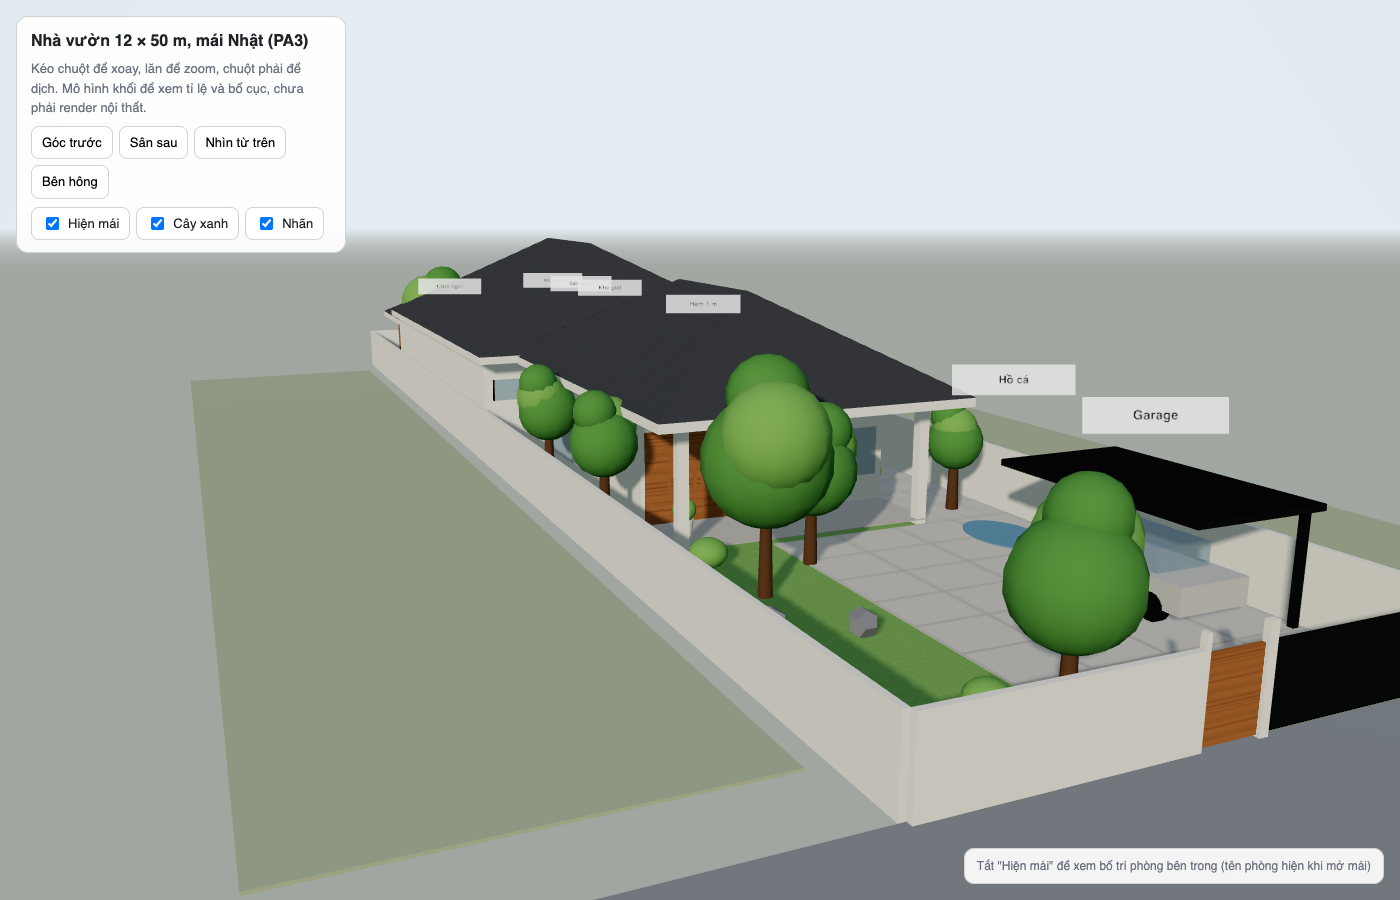
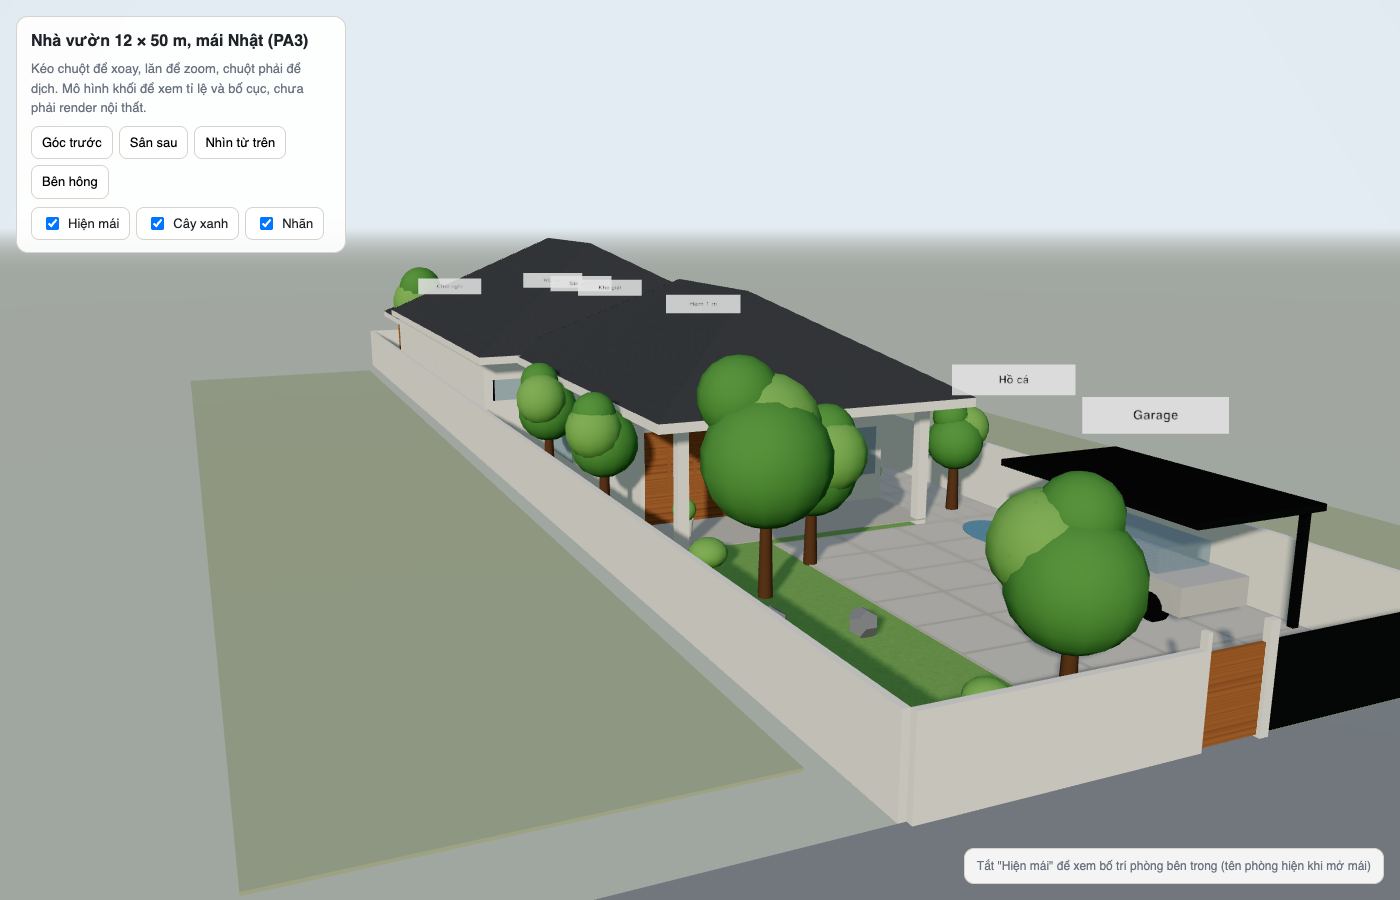
Bếp nấu 4 m, phòng làm việc 4,2 m

diff --git a/mat-bang-nha-12x50.html b/mat-bang-nha-12x50.html
@@ -82,7 +82,7 @@
       <h2 style="margin-top:0">Ý đồ thiết kế</h2>
       <ul>
         <li><b>Gian trước 7,5 × 12,5 m</b>: hiên 2,5 m, rồi gian thờ 3,5 × 4,5 m bên trái và sảnh vào 4 × 4,5 m bên phải, sau đó là phòng khách 7,5 × 5,5 m. Gian thờ là phòng đầu tiên của nhà, bàn thờ đặt sát tường trong nhìn thẳng ra đường, có cửa sổ tròn bên hông và cửa sổ ra hiên. Cửa 2 cánh mở từ sảnh vào. Toàn bộ gian trước không có WC.</li>
-        <li><b>Gian ngang 11 × 13,8 m</b> chừa hẻm 1 m bên phải. Giữa nhà là phòng ăn 5,4 × 6 m dưới giếng trời. Bên trái là phòng ngủ khách 2,8 × 8,2 m chạy suốt hai hàng, 2 giường đôi 1,6 × 2 m kê ngang phòng, đầu cả hai giường tựa tường ranh trái là tường đặc, không cửa sổ, không giáp WC. Chân giường quay về tường phòng ăn, không hướng ra cửa, cửa sổ hay WC. Lối đi cuối giường 0,75 m, tab đầu giường dùng chung ở giữa. Cửa sổ tường trước nâng cao, mép dưới 1,9 m, để không nằm ngay sau đầu giường. Cửa phòng mở từ phòng ăn, ở góc xa bếp nấu nên không nhìn thẳng vào bếp lửa. Cuối phòng có WC riêng và hốc tủ áo, chỉ đi vào từ trong phòng. Bên phải là bếp nấu 2,8 × 4,5 m tựa tường hẻm, ngăn với phòng ăn bằng vách kính lùa và đảo 3 m, có cửa phụ ra hẻm. Sau bếp nấu là phòng làm việc 2,8 × 3,7 m, có bàn làm việc và 1 giường đơn cho người ngủ lại. Hàng giữa: sảnh. Hàng sau: ngủ chính 1 và 2 mỗi phòng 4,5 × 5,6 m, 25,2 m² trọn vẹn, cửa mở từ sảnh chính. Giữa hai phòng là hành lang rộng 2 m, cuối có cửa 2 cánh 1,6 m ra hiên sau. Đây là lối chính trong nhà đi ra sân sau, đủ rộng để bưng đồ ăn ra chòi khi có tiệc.</li>
+        <li><b>Gian ngang 11 × 13,8 m</b> chừa hẻm 1 m bên phải. Giữa nhà là phòng ăn 5,4 × 6 m dưới giếng trời. Bên trái là phòng ngủ khách 2,8 × 8,2 m chạy suốt hai hàng, 2 giường đôi 1,6 × 2 m kê ngang phòng, đầu cả hai giường tựa tường ranh trái là tường đặc, không cửa sổ, không giáp WC. Chân giường quay về tường phòng ăn, không hướng ra cửa, cửa sổ hay WC. Lối đi cuối giường 0,75 m, tab đầu giường dùng chung ở giữa. Cửa sổ tường trước nâng cao, mép dưới 1,9 m, để không nằm ngay sau đầu giường. Cửa phòng mở từ phòng ăn, ở góc xa bếp nấu nên không nhìn thẳng vào bếp lửa. Cuối phòng có WC riêng và hốc tủ áo, chỉ đi vào từ trong phòng. Bên phải là bếp nấu 2,8 × 4 m tựa tường hẻm, ngăn với phòng ăn bằng vách kính lùa và đảo 3 m, có cửa phụ ra hẻm. Sau bếp nấu là phòng làm việc 2,8 × 4,2 m, có bàn làm việc và 1 giường đơn cho người ngủ lại. Hàng giữa: sảnh. Hàng sau: ngủ chính 1 và 2 mỗi phòng 4,5 × 5,6 m, 25,2 m² trọn vẹn, cửa mở từ sảnh chính. Giữa hai phòng là hành lang rộng 2 m, cuối có cửa 2 cánh 1,6 m ra hiên sau. Đây là lối chính trong nhà đi ra sân sau, đủ rộng để bưng đồ ăn ra chòi khi có tiệc.</li>
         <li><b>Hai WC riêng 2,4 × 2,6 m</b> nhô ra phía hiên sau, nằm trong mép mái đua sẵn có nên không phải làm thêm mái. Mỗi WC có ba mặt ngoài, cửa sổ hai phía, rất thoáng. Hiên sau thu lại còn 5,8 m nằm giữa hai WC, thành một góc ngồi kín đáo hơn. Mỗi phòng master có cửa kính ra thẳng hiên.</li>
         <li><b>4 WC</b>: WC riêng 1 và 2 cho hai phòng ngủ chính, nhô ra phía hiên sau. WC 2,2 × 1,9 m nằm trong phòng ngủ khách. WC sân vườn 2 × 2,2 m cạnh chòi và BBQ, dùng khi tiệc ngoài trời. Không WC nào nằm giữa nhà hay gần gian thờ.</li>
         <li><b>Hẻm 1 m</b> chạy từ sân bên phải gian trước ra thẳng sân sau. Đủ cho người đi lại thoải mái, mang đồ, đẩy xe rác hoặc máy cắt cỏ ra sau mà không phải đi xuyên nhà. Dắt xe máy thì hơi chật, cần khoảng 1,2 m.</li>
@@ -271,8 +271,8 @@ const rooms=[
   {n:'PHÒNG KHÁCH + SINH HOẠT',d:[20,25.5],w:[1.8,9.3],f:'--c-living'},
   {n:'NGỦ KHÁCH',d:[25.5,33.7],w:[0,2.8],f:'--c-bed',minus:4.18,sub:'2 giường đôi · WC riêng',lp:[28.6,1.25]},
   {n:'PHÒNG ĂN',d:[25.5,31.5],w:[2.8,8.2],f:'--c-kitchen',sub:'2 bàn 16 chỗ · giếng trời',lp:[28.2,7.2]},
-  {n:'BẾP NẤU',d:[25.5,30.0],w:[8.2,11.0],f:'--c-kitchen',lp:[28.1,9.75]},
-  {n:'LÀM VIỆC',d:[30.0,33.7],w:[8.2,11.0],f:'--c-bed',sub:'1 giường đơn',lp:[31.3,9.3]},
+  {n:'BẾP NẤU',d:[25.5,29.5],w:[8.2,11.0],f:'--c-kitchen',lp:[27.9,9.75]},
+  {n:'LÀM VIỆC',d:[29.5,33.7],w:[8.2,11.0],f:'--c-bed',sub:'1 giường đơn',lp:[31.2,9.3]},
   {n:'WC',d:[31.5,33.7],w:[0,1.9],f:'--c-wet',small:true,sub2:'2,2 × 1,9'},
   {n:'SẢNH',d:[31.5,33.7],w:[2.8,8.2],f:'--c-hall'},
   {n:'NGỦ CHÍNH 1',d:[33.7,39.3],w:[0,4.5],f:'--c-bed',sub:'WC riêng phía sau'},
@@ -312,13 +312,13 @@ const rooms=[
     [0.15,0.9,1.65,2.4].forEach(o=>{rect(g,m,d1-0.45,d1,3.3+o,3.3+o+.45,{fill:'#fff',stroke:'#a67c52',rx:2});rect(g,m,d1+0.9,d1+1.35,3.3+o,3.3+o+.45,{fill:'#fff',stroke:'#a67c52',rx:2});});
     label(g,m,d1+0.45,4.8,name,{size:9,fill:'#5b3a1a',rot:-90}); }
   table(26.75,'BÀN A · 8'); table(29.35,'BÀN B · 8');
-  rect(g,m,25.6,29.9,10.4,10.95,{fill:'#c9b27a',opacity:.8});        // tủ bếp dọc hẻm
+  rect(g,m,25.6,29.4,10.4,10.95,{fill:'#c9b27a',opacity:.8});        // tủ bếp dọc hẻm
   rect(g,m,25.8,26.6,10.45,10.9,{fill:'#b45f2e'}); label(g,m,26.2,10.2,'bếp lửa',{size:8,fill:'#8a3b12'});
   rect(g,m,27.6,28.4,10.45,10.9,{fill:'#7cc4ff'}); label(g,m,28.0,10.2,'chậu rửa',{size:8,fill:'#1d5f8a'});
-  rect(g,m,29.3,29.9,10.25,10.95,{fill:'#e5e7eb',stroke:'#b8b3a8'}); 
-  rect(g,m,26.4,29.4,8.35,9.25,{fill:'#d9c6a5',stroke:'#8b5a2b','stroke-width':1,rx:2}); label(g,m,27.9,8.9,'ĐẢO 3 m · buffet',{size:9,fill:'#5b3a1a'});
+  rect(g,m,28.8,29.4,10.25,10.95,{fill:'#e5e7eb',stroke:'#b8b3a8'}); 
+  rect(g,m,26.0,29.0,8.35,9.25,{fill:'#d9c6a5',stroke:'#8b5a2b','stroke-width':1,rx:2}); label(g,m,27.5,8.9,'ĐẢO 3 m · buffet',{size:9,fill:'#5b3a1a'});
   function bed(d1,d2,w1,w2,head){rect(g,m,d1,d2,w1,w2,F); const h=0.35; if(head==='w0')rect(g,m,d1+0.1,d2-0.1,w1,w1+h,{fill:'#e5e7eb',rx:2}); if(head==='w1')rect(g,m,d1+0.1,d2-0.1,w2-h,w2,{fill:'#e5e7eb',rx:2}); if(head==='d1')rect(g,m,d2-h,d2,w1+0.1,w2-0.1,{fill:'#e5e7eb',rx:2}); if(head==='ds')rect(g,m,d1,d1+h,w1+0.1,w2-0.1,{fill:'#e5e7eb',rx:2});}
-  bed(25.8,27.4,0.05,2.05,'w0'); bed(28.3,29.9,0.05,2.05,'w0'); rect(g,m,27.55,28.15,0.05,0.45,F); rect(g,m,31.7,33.5,2.2,2.7,{fill:'#e5e7eb',rx:2}); bed(31.6,33.6,9.9,10.9,'d1'); rect(g,m,30.1,30.7,8.4,9.8,Object.assign({},F,{stroke:'#a67c52'})); el('circle',{cx:m.x(31.0),cy:m.y(9.1),r:.22*m.S,fill:'#fff',stroke:'#a67c52'},g); bed(35.3,37.1,0.1,2.1,'w0'); bed(35.3,37.1,8.9,10.9,'w1');
+  bed(25.8,27.4,0.05,2.05,'w0'); bed(28.3,29.9,0.05,2.05,'w0'); rect(g,m,27.55,28.15,0.05,0.45,F); rect(g,m,31.7,33.5,2.2,2.7,{fill:'#e5e7eb',rx:2}); bed(31.6,33.6,9.9,10.9,'d1'); rect(g,m,29.6,30.2,8.4,9.8,Object.assign({},F,{stroke:'#a67c52'})); el('circle',{cx:m.x(30.5),cy:m.y(9.1),r:.22*m.S,fill:'#fff',stroke:'#a67c52'},g); bed(35.3,37.1,0.1,2.1,'w0'); bed(35.3,37.1,8.9,10.9,'w1');
   rect(g,m,36.4,39.1,3.9,4.4,{fill:'#e5e7eb',rx:2}); rect(g,m,36.4,39.1,6.6,7.1,{fill:'#e5e7eb',rx:2}); // tủ áo
   function plant(d,w,r){const cx=m.x(d),cy=m.y(w),R=(r||0.3)*m.S; el('circle',{cx,cy,r:R,fill:'#4f9a5a'},g); el('circle',{cx:cx-R*.3,cy:cy-R*.3,r:R*.45,fill:'#7cc27f'},g);}
   plant(14.2,2.5,0.3); plant(16.3,6.0,0.3); plant(24.9,2.2,0.25); plant(24.9,8.9,0.22); plant(31.0,7.8,0.18); plant(32.6,5.0,0.2); plant(34.3,5.5,0.18); plant(40.2,3.2,0.3); plant(40.2,7.9,0.3);
@@ -345,7 +345,7 @@ const rooms=[
   wall(39.3,2.6,41.7,2.6); wall(41.7,0,41.7,2.6); wall(39.3,8.4,41.7,8.4); wall(41.7,8.4,41.7,11.0);
   wall(15.5,5.3,20,5.3,ti); wall(20,1.8,20,5.3,ti);
   wall(25.5,1.8,25.5,9.3,ti);
-  wall(25.5,2.8,33.7,2.8,ti); wall(30.0,8.2,33.7,8.2,ti); wall(30.0,8.2,30.0,11.0,ti);
+  wall(25.5,2.8,33.7,2.8,ti); wall(29.5,8.2,33.7,8.2,ti); wall(29.5,8.2,29.5,11.0,ti);
   wall(31.5,0,31.5,1.9,ti); wall(31.5,2.8,31.5,8.2,ti);
   wall(31.5,1.9,33.7,1.9,ti);
   wall(33.7,0,33.7,11.0,ti);
@@ -364,7 +364,7 @@ const rooms=[
   door(17,5.3,18.2,5.3);
   door(30.5,2.8,31.3,2.8); door(32.0,8.2,32.8,8.2);   // ngủ khách mở từ phòng ăn, ngủ 4
   door(26.8,11.0,27.4,11.0);                                 // cửa phụ bếp ra hẻm
-  win(25.7,8.2,29.8,8.2);                                    // vách kính lùa bếp nấu
+  win(25.7,8.2,29.3,8.2);                                    // vách kính lùa bếp nấu
   door(32.2,1.9,33.0,1.9);
   door(33.7,3.2,33.7,4.1); door(33.7,7.3,33.7,8.2);       // cửa 2 master từ sảnh
   door(39.3,0.9,39.3,1.8); door(39.3,9.3,39.3,10.2);       // master -> WC riêng
@@ -386,7 +386,7 @@ const rooms=[
   dim(g,m,13,15.5,12.9,'2,5'); dim(g,m,15.5,20,12.9,'4,5'); dim(g,m,20,25.5,12.9,'5,5'); dim(g,m,25.5,31.5,12.9,'6'); dim(g,m,31.5,33.7,12.9,'2,2'); dim(g,m,33.7,39.3,12.9,'5,6'); dim(g,m,39.3,41.7,12.9,'2,4');
   dimV(g,m,0,2.8,25.1,'2,8'); dimV(g,m,2.8,8.2,25.1,'5,4'); dimV(g,m,8.2,11.0,25.1,'2,8'); dimV(g,m,11.0,12,25.1,'1');
   dimV(g,m,0,1.8,12.6,'1,8'); dimV(g,m,1.8,9.3,12.6,'7,5'); dimV(g,m,9.3,12,12.6,'2,7');
-  dim(g,m,25.5,33.7,-0.35,'ngủ khách dài 8,2 m (gồm WC 2,2)'); dim(g,m,25.5,30.0,11.8,'bếp nấu 4,5'); dim(g,m,30.0,33.7,11.8,'làm việc 3,7');
+  dim(g,m,25.5,33.7,-0.35,'ngủ khách dài 8,2 m (gồm WC 2,2)'); dim(g,m,25.5,29.5,11.8,'bếp nấu 4'); dim(g,m,29.5,33.7,11.8,'làm việc 4,2');
   label(g,m,20.5,0.9,'dải cây xanh 1,8 m',{size:10,fill:css('--muted')}); label(g,m,19,10.7,'sân lát bên phải 2,7 m',{size:10,fill:css('--muted')});
   dimV(g,m,0,4.5,42.4,'4,5'); dimV(g,m,4.5,6.5,42.4,'2'); dimV(g,m,6.5,11.0,42.4,'4,5'); dimV(g,m,11.0,12,42.4,'1');
   dimV(g,m,1.8,5.3,15.1,'3,5'); dimV(g,m,5.3,9.3,15.1,'4');

diff --git a/3d-nha-12x50.html b/3d-nha-12x50.html
@@ -193,8 +193,8 @@ const inner=new THREE.Group(); house.add(inner); const IH=3.2, TI=0.12;
 function iw(d1,w1,d2,w2){ if(d1===d2) box(d1-TI/2,d1+TI/2,Math.min(w1,w2),Math.max(w1,w2),0,IH,M.inner,inner); else box(Math.min(d1,d2),Math.max(d1,d2),w1-TI/2,w1+TI/2,0,IH,M.inner,inner); }
 iw(15.5,5.3,17,5.3); iw(18.2,5.3,20,5.3); iw(20,1.8,20,5.3);
 iw(25.5,1.8,25.5,3.0); iw(25.5,8.0,25.5,9.3);
-iw(25.5,2.8,30.5,2.8); iw(31.3,2.8,33.7,2.8); iw(30.0,8.2,32.0,8.2); iw(32.8,8.2,33.7,8.2); iw(30.0,8.2,30.0,11.0);
-box(25.7,29.8,8.17,8.23,0.15,IH,M.glass,inner,false);
+iw(25.5,2.8,30.5,2.8); iw(31.3,2.8,33.7,2.8); iw(29.5,8.2,32.0,8.2); iw(32.8,8.2,33.7,8.2); iw(29.5,8.2,29.5,11.0);
+box(25.7,29.3,8.17,8.23,0.15,IH,M.glass,inner,false);
 iw(31.5,0,31.5,1.9); iw(31.5,2.8,31.5,4.0); iw(31.5,7.9,31.5,8.2);
 iw(31.5,1.9,32.2,1.9); iw(33.0,1.9,33.7,1.9);
 iw(33.7,0,33.7,3.2); iw(33.7,4.1,33.7,4.6); iw(33.7,6.4,33.7,7.3); iw(33.7,8.2,33.7,11.0);
@@ -202,10 +202,10 @@ iw(33.7,4.5,39.3,4.5); iw(33.7,6.5,39.3,6.5);
 iw(39.3,0,39.3,0.9); iw(39.3,1.8,39.3,2.6); iw(39.3,8.4,39.3,9.3); iw(39.3,10.2,39.3,11.0);
 // interior hints
 box(19.45,19.95,2.6,4.5,0.15,1.0,M.wood,inner);                 // bàn thờ
-box(25.6,29.9,10.4,10.95,0.15,1.0,M.wood,inner); box(26.4,29.4,8.35,9.25,0.15,1.0,M.deck,inner); box(26.75,27.65,3.3,6.3,0.7,0.78,M.wood,inner); box(29.35,30.25,3.3,6.3,0.7,0.78,M.wood,inner);
+box(25.6,29.4,10.4,10.95,0.15,1.0,M.wood,inner); box(26.0,29.0,8.35,9.25,0.15,1.0,M.deck,inner); box(26.75,27.65,3.3,6.3,0.7,0.78,M.wood,inner); box(29.35,30.25,3.3,6.3,0.7,0.78,M.wood,inner);
 [[25.8,27.4,0.05,2.05],[28.3,29.9,0.05,2.05],[31.6,33.6,9.9,10.9],[35.3,37.1,0.1,2.1],[35.3,37.1,8.9,10.9]].forEach(([a,b,c,d])=>box(a,b,c,d,0.15,0.55,M.white,inner));
 box(19.85,20.15,6.2,8.2,0.15,2.4,M.wood,inner);   // lam gỗ bình phong
-box(30.1,30.7,8.4,9.8,0.7,0.76,M.wood,inner); box(21.0,24.3,5.7,6.6,0.15,0.75,new THREE.MeshStandardMaterial({color:0x9a9a94}),inner);
+box(29.6,30.2,8.4,9.8,0.7,0.76,M.wood,inner); box(21.0,24.3,5.7,6.6,0.15,0.75,new THREE.MeshStandardMaterial({color:0x9a9a94}),inner);
 
 // roofs
 const roofs=new THREE.Group(); G.add(roofs);

diff --git a/BOI-CANH-DU-AN.md b/BOI-CANH-DU-AN.md
@@ -14,8 +14,8 @@
 - Sân trước 13 m: cổng, garage bên trái (nhìn từ trong ra), hồ cá bên trái cạnh lối xe, tiểu cảnh đá bên phải.
 - Gian trước 7,5 x 12,5 m: hiên 2,5; gian thờ 4,5 x 3,5 (phòng đầu tiên) + sảnh vào 4,5 x 4; lam gỗ bình phong; phòng khách 5,5 x 7,5.
 - Gian ngang 11 x 13,8 m, hẻm 1 m bên phải thông ra sân sau.
-  - Hàng trước: ngủ khách 2,8 x 8,2 chạy suốt 2 hàng, 2 giường đôi kê ngang, đầu tựa tường ranh, cửa mở từ phòng ăn, WC trong phòng | phòng ăn 5,4 x 6 ở tâm nhà, giếng trời, 2 bàn 8 chỗ | bếp nấu 2,8 x 4,5 tựa tường hẻm + đảo buffet 3 m.
-  - Hàng giữa: sảnh | phòng làm việc 2,8 x 3,7 có 1 giường đơn.
+  - Hàng trước: ngủ khách 2,8 x 8,2 chạy suốt 2 hàng, 2 giường đôi kê ngang, đầu tựa tường ranh, cửa mở từ phòng ăn, WC trong phòng | phòng ăn 5,4 x 6 ở tâm nhà, giếng trời, 2 bàn 8 chỗ | bếp nấu 2,8 x 4 tựa tường hẻm + đảo buffet 3 m.
+  - Hàng giữa: sảnh | phòng làm việc 2,8 x 4,2 có 1 giường đơn.
   - Hàng sau: ngủ chính 1 và 2 (4,5 x 5,6) | hành lang 2 m ra hiên sau.
   - 2 WC riêng 2,4 x 2,6 nhô ra sau dưới mái đua, hiên sau 5,8 m ở giữa.
 - Sân sau 8,3 m: kho giặt, sân phơi, chòi 5 x 5 + BBQ, WC sân vườn cạnh chòi.
